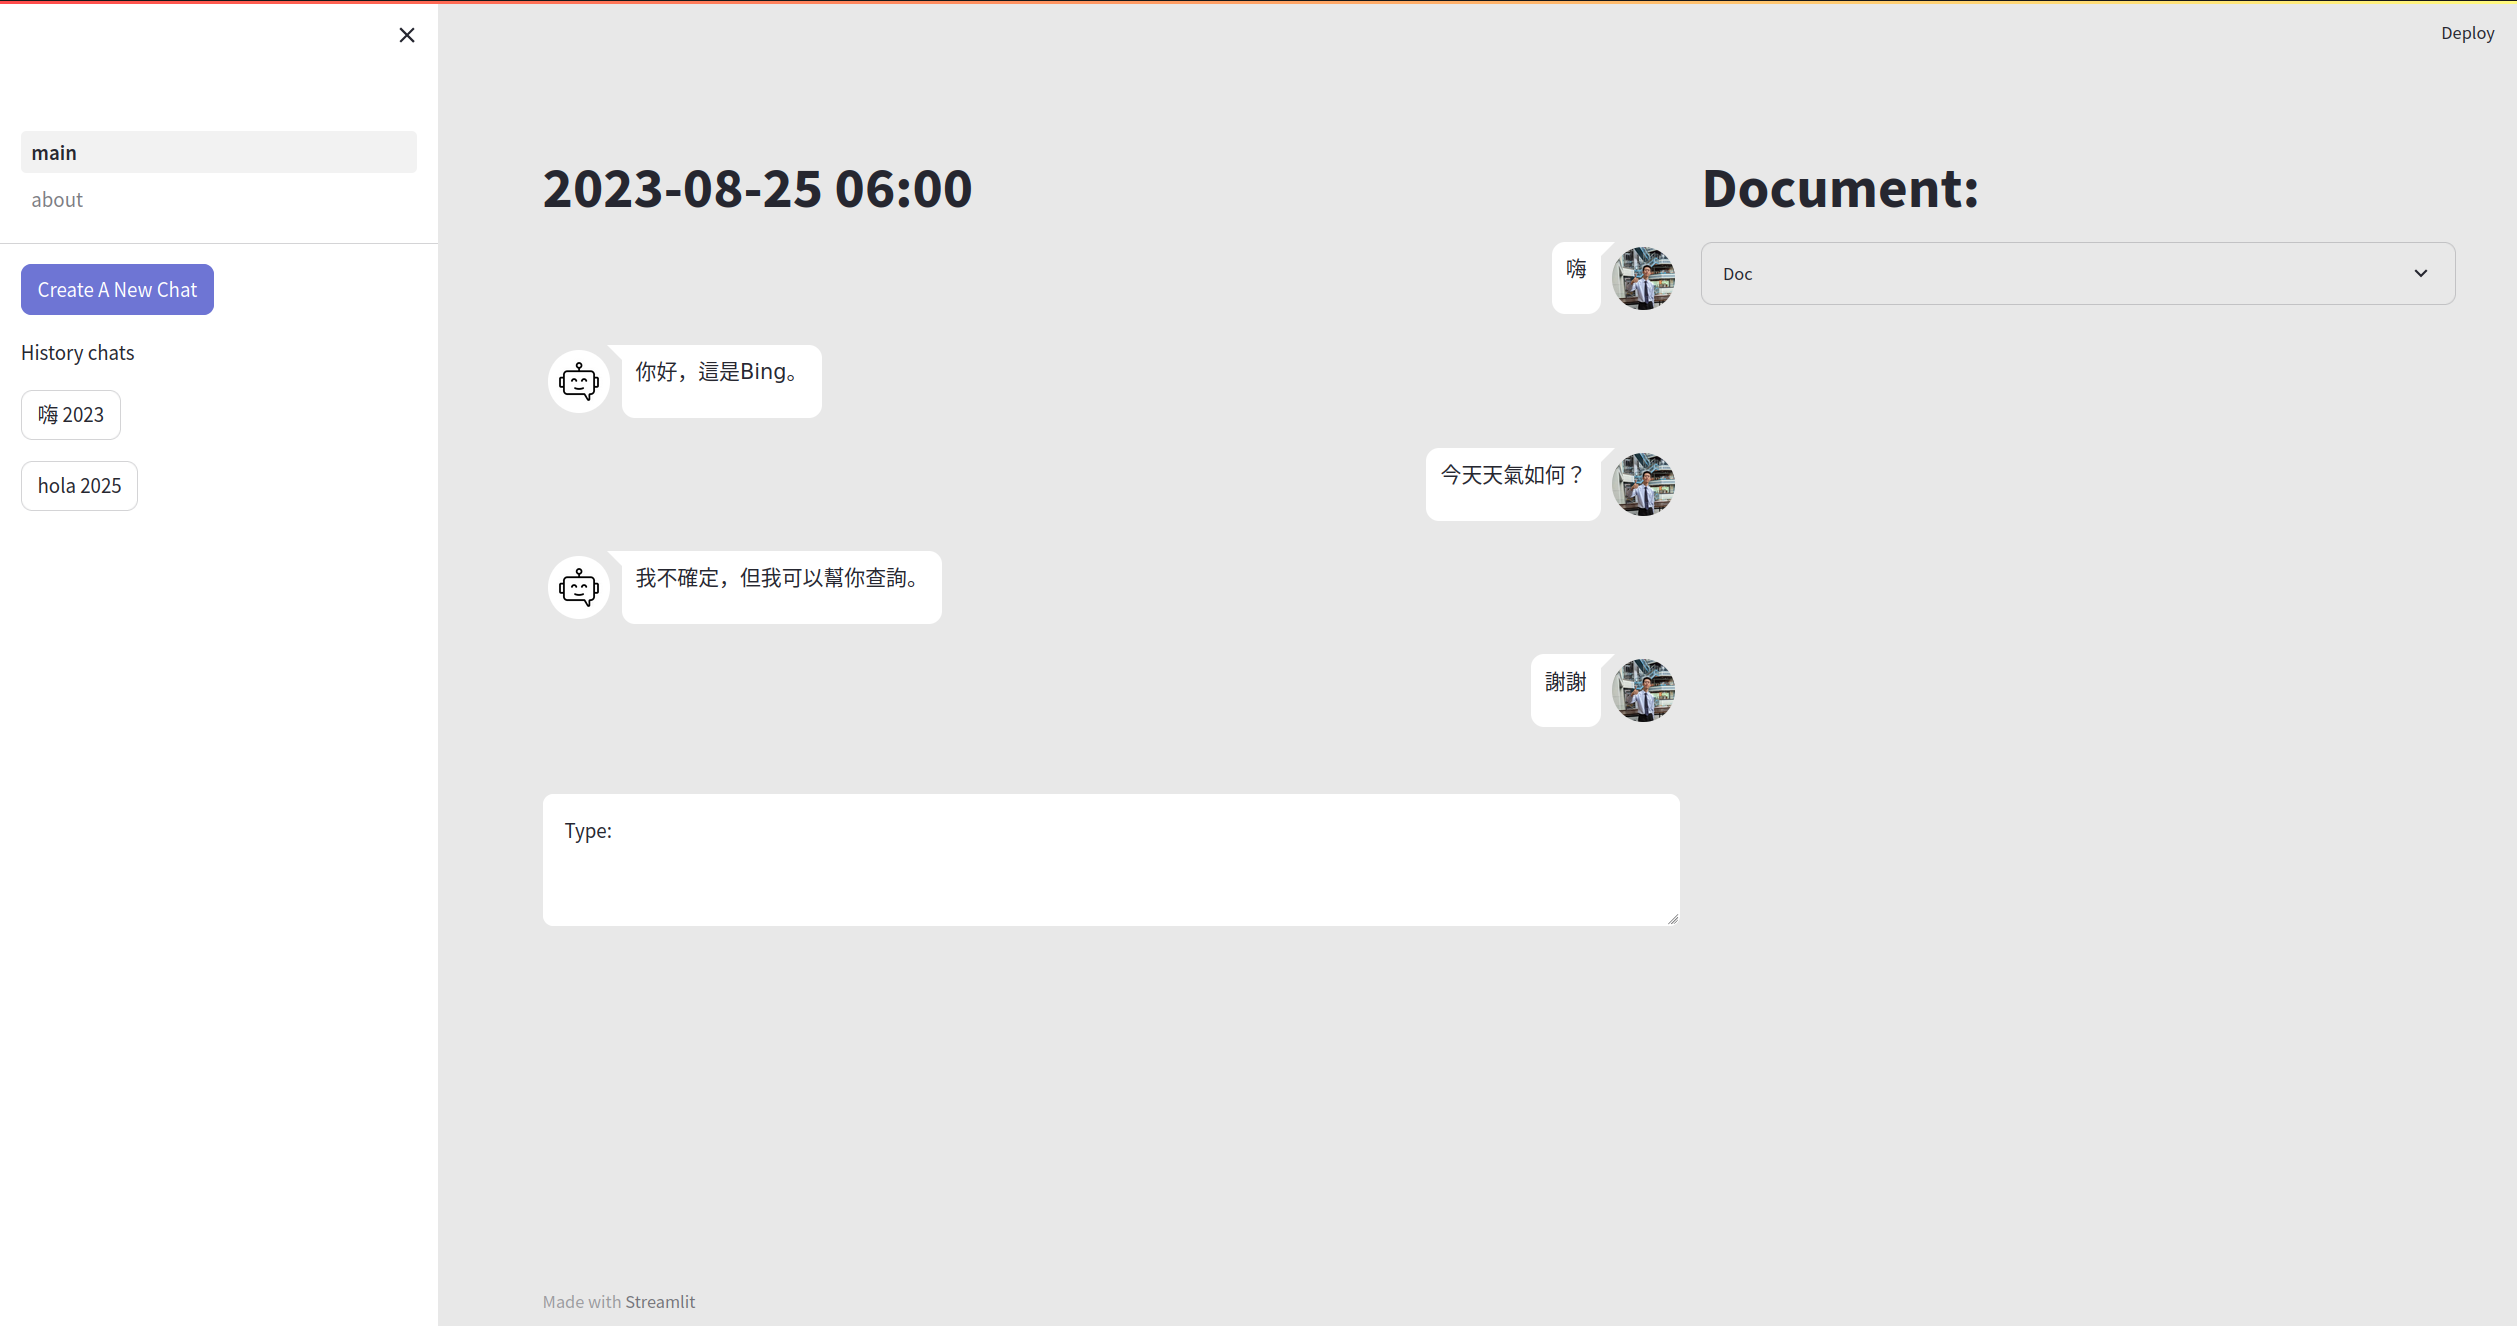
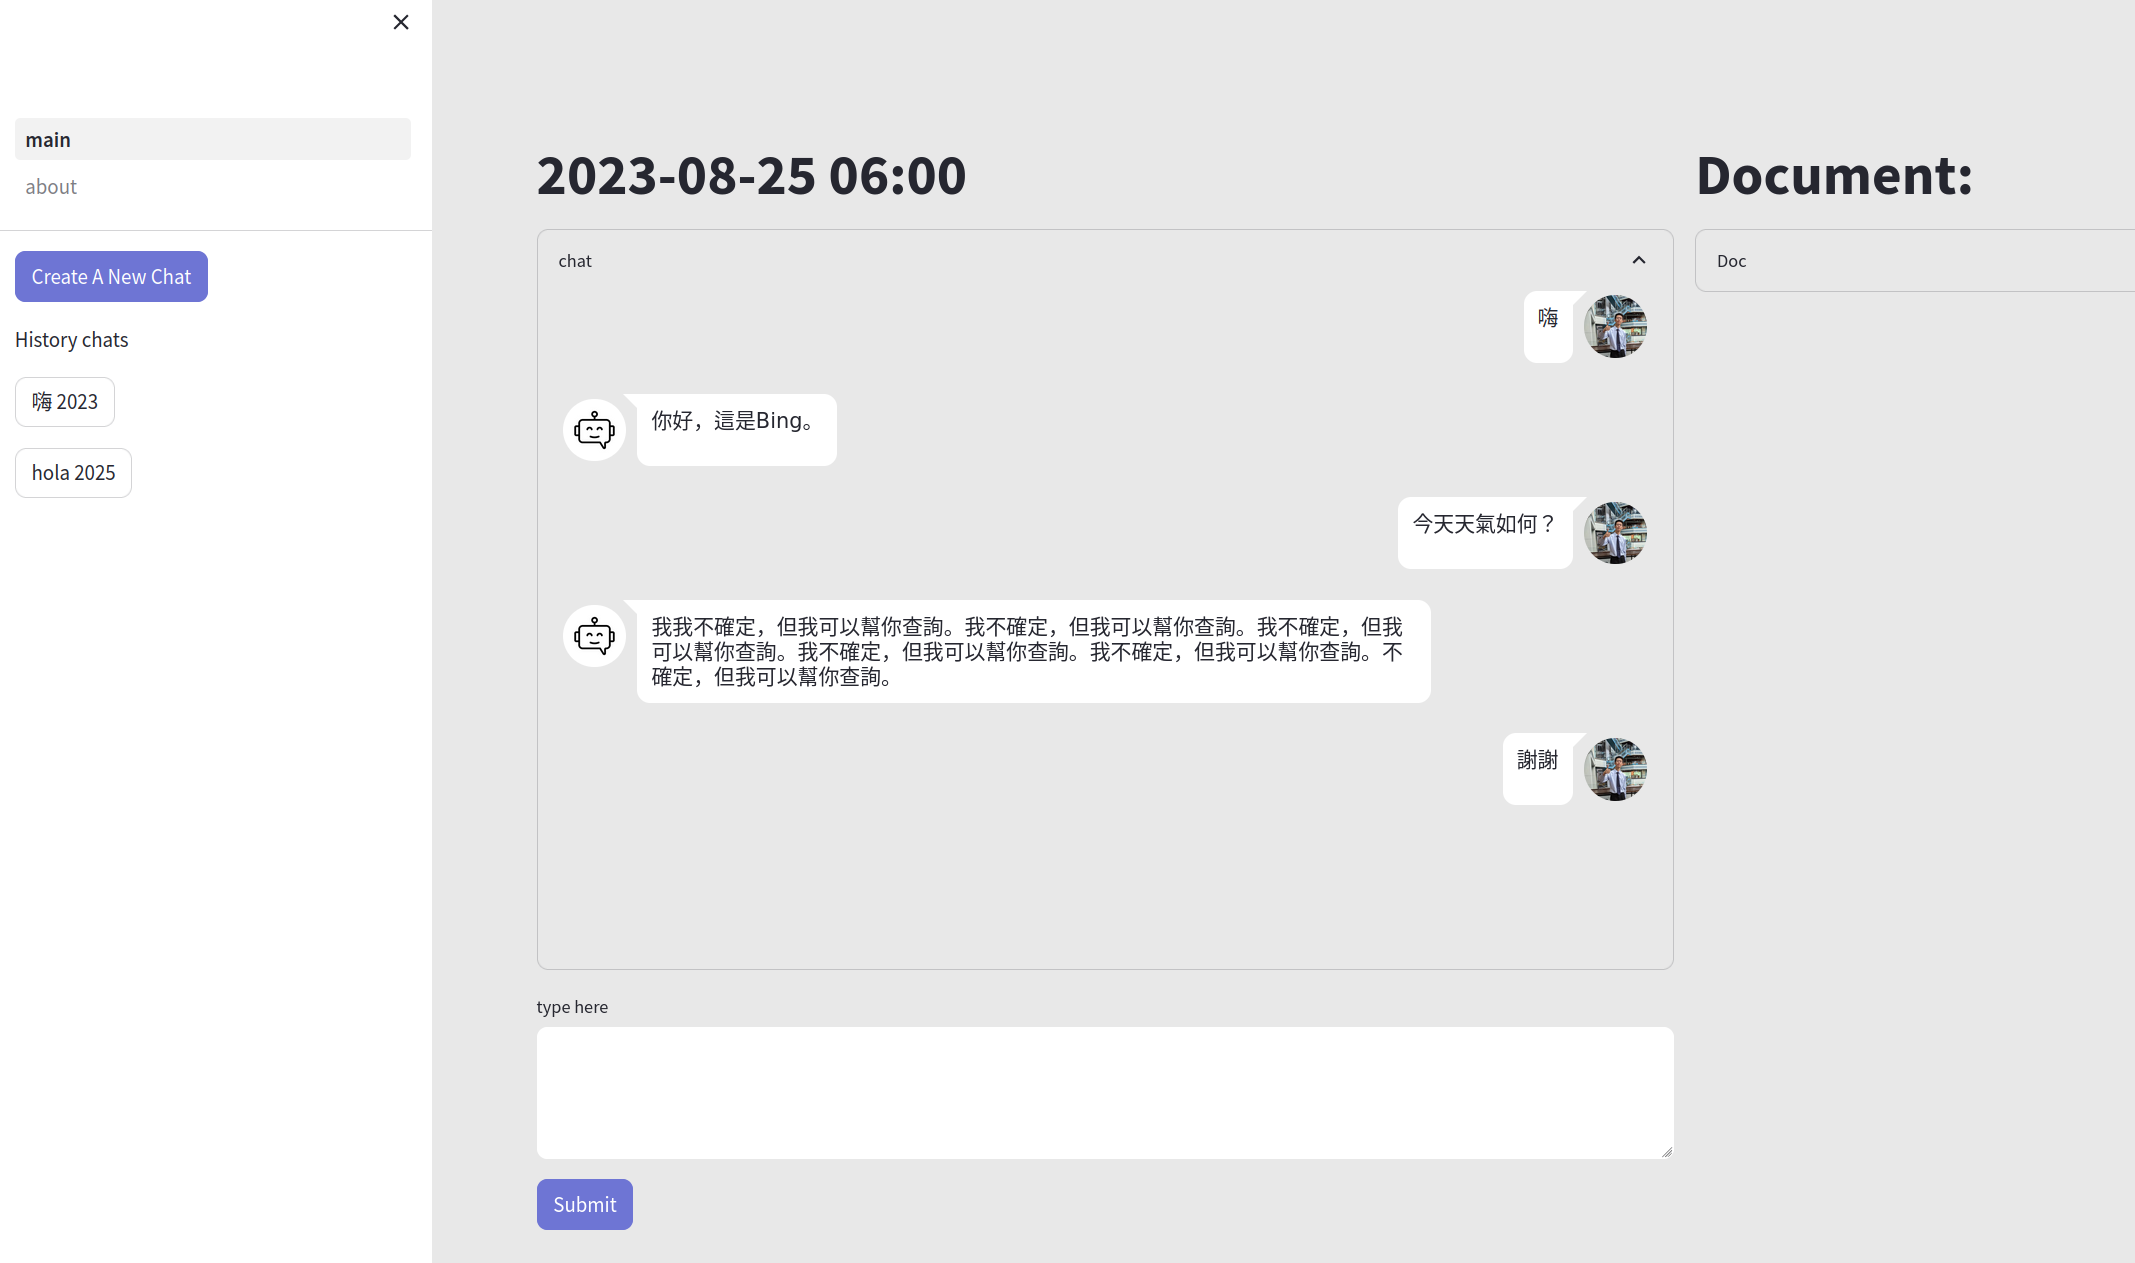
finish "new chat room" feature

diff --git a/main.py b/main.py
@@ -3,6 +3,7 @@ from streamlit import session_state as ss
 from chatroom import chatroom, chatData
 from streamlit_chat import message
 from streamlit.components.v1 import html # for embedding js
+from streamlit_javascript import st_javascript as st_js
 
 import time
 from datetime import datetime
@@ -30,9 +31,7 @@ def scrollbarDown():
     html(
         """
     <script language="javascript">
-    const e = window.parent.document.getElementsByClassName("streamlit-expanderContent");
-    e[0].scrollTop = e[0].scrollHeight; //  - e[0].clientHeight;
-    console.log("scrollbar");
+    scrollbarDown();
     </script>
         """, width=0, height=0)
 
@@ -62,6 +61,8 @@ def ai_model(prompt):
     # return answer
     if prompt == "":
         return "Bro, u serious??"
+    elif prompt == "存證信函是什麼？":
+        return "1.存證信函是指藉由郵局證明信件內容及發信日期、收信日期的信件 文書.\n2.存證信函僅能證明發信人在信中表達了一定的意思表示，而且收信者確 實收到了信件.\n3.存證信函並不能夠代表發信者確實擁有信中敘述的權利，也不能夠代表 收信者即負有信中所敘述或要求的義務。"
     return prompt[::-1]
 
 def get_ai_response(prompt):
@@ -100,7 +101,7 @@ with chat_box:
 
 
 chat_col.text_area("type here", key="chat_input")
-submit_btn = st.button("Submit", key="submit_btn", on_click=add_new_message, args=("Bob", ss['chat_input']))
+submit_btn = st.button("Submit", type="primary", key="submit_btn", on_click=add_new_message, args=("Bob", ss['chat_input']))
 
 
 # ===== chat room =====
@@ -109,9 +110,12 @@ submit_btn = st.button("Submit", key="submit_btn", on_click=add_new_message, arg
 
 doc_col.title("Document: ")
 
-with doc_col.expander("Doc"):
-    for doc in ss.current_chatroom.docs:
-        st.write(doc)
+if ss.current_chatroom.docs == []:
+    doc_col.markdown("### Empty")
+else:
+    with doc_col.expander("Doc", False):
+        for doc in ss.current_chatroom.docs:
+            st.write(doc)
     
 
 # ===== doc room =====
@@ -136,6 +140,16 @@ def change_room(room):
     ss.current_chatroom = room
     ss.current_messages = room.chat_history
 
+    st_js("""function scrollbarDown() {
+            const e = window.parent.document.getElementsByClassName("streamlit-expanderContent");
+            e[0].scrollTop = e[0].scrollHeight; //  - e[0].clientHeight;
+            console.log("scrollbar");
+           }
+           scrollbarDown();
+           """) 
+    st_js("console.log(\"in\");")
+    print("st js work successfully")
+
 def create_new_chat():
 
     tmp = datetime.now()
@@ -148,7 +162,11 @@ def create_new_chat():
     date_dict["minute"] = tmp.minute
     date_dict["second"] = tmp.second
     
+    # add greeting words
     chat_history_list = []
+    chat_history_list.append({})
+    chat_history_list[0]["sender"] = "AI"
+    chat_history_list[0]["text"] = "Welcome to LawChat.tw."
 
     docs_list = []
 
@@ -162,21 +180,33 @@ def create_new_chat():
 create_new_chat_btn = st.sidebar.button("Create A New Chat", type="primary", on_click=create_new_chat)
 
 st.sidebar.write("History chats")
+
+room_count = 0
 for room in chatrooms:
-    button_title = room.chat_history[0]["text"] + '\n' + str(room.date["year"])
+    if room.chat_history == []: # avoid empty chat history
+        room.chat_history.append({})
+        room.chat_history[0]["sender"] = "AI"
+        room.chat_history[0]["text"] = "Welcome to LawChat.tw."
+
+    # the title on the sidebar
     # set the first human chat as the title
+    button_title = room.chat_history[0]["text"] + '\n' + str(room.date["year"])
 
-    st.sidebar.button(button_title, on_click=change_room, args=(room,))
-
-
-# generate_room(st, ss.current_chatroom, ss.current_messages)
-
-# st.write(ss)
-# st.write(ss["current_chatroom"])
-# st.write(ss["current_chatroom"])
-# for msg in ss.current_messages:
-#     st.write(msg["sender"])
-#     st.write(msg["text"])
+    st.sidebar.button(button_title, on_click=change_room, args=(room,), key=f"{room_count}_{button_title}")
+    room_count += 1
 
 
-print(datetime.now())
+js = f"""
+<script>
+    function scroll(dummy_var_to_force_repeat_execution){{
+        var textAreas = window.parent.document.querySelectorAll('');
+        for (let index = 0; index < textAreas.length; index++) {{
+            textAreas[index].style.color = 'red'
+            textAreas[index].scrollTop = textAreas[index].scrollHeight;
+        }}
+    }}
+    scroll( {len(st.session_state.chat)} )
+</script>
+"""
+
+html(js)

diff --git a/README.md b/README.md
@@ -5,7 +5,7 @@
 
 ## Demo App
 
-![Demo](https://law-thon-project-test.streamlit.app/)
+[Demo](https://law-thon-project-test.streamlit.app/)
 
 
 
